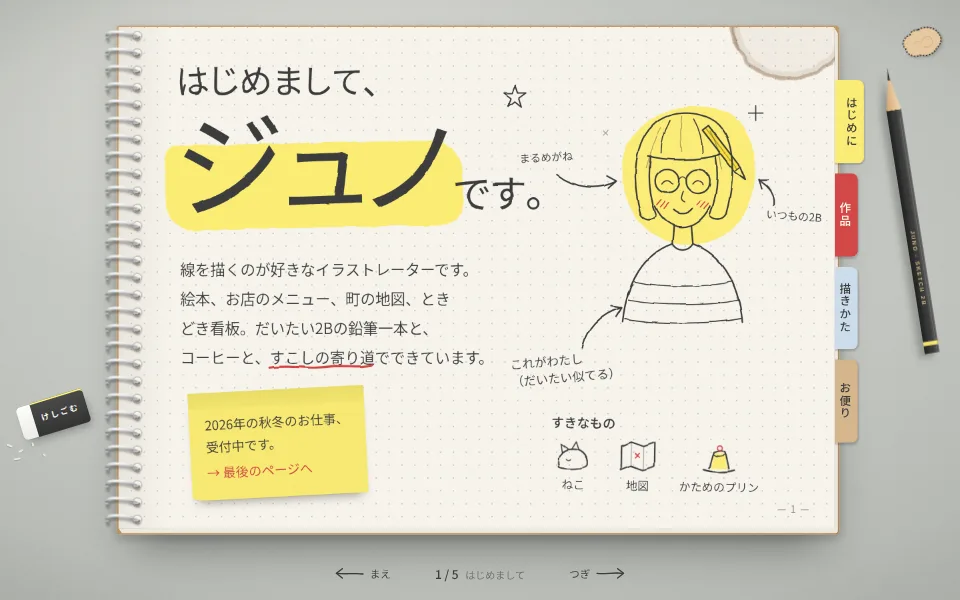
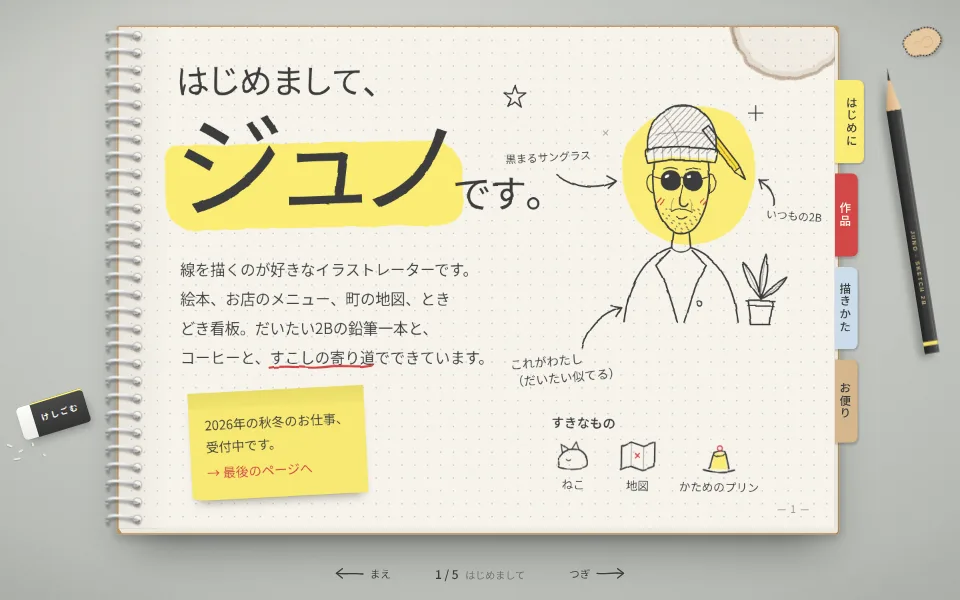
Redraw Juno's self-portrait as the gentle hitman
Same loose line style, now with round black sunglasses (with a glint), a
hatched knit cap holding the 2B pencil, stubble and a moustache, a long
face, a coat collar, and a small potted plant at the shoulder. The margin
note now reads 黒まるサングラス and the alt text describes the new drawing.
Cover frames 01 and 03, which show page 1, are reshot.

Changed region(s): [[0.625, 0.15, 0.8125, 0.54], [0.5312, 0.24, 0.625, 0.27]]

diff --git a/sketchbook/index.html b/sketchbook/index.html
@@ -235,6 +235,8 @@ svg.draw.it{ width: calc(var(--w) * var(--u)); }
 .draw .ln.lt{ stroke-opacity: .42; stroke-width: 1.3; }
 .draw .ln.th{ stroke-width: 1.5; }
 .draw .ln.red{ stroke: var(--red); }
+.draw .ln.stub{ stroke-opacity: .6; stroke-width: 1.8; }
+.draw .solid.glint{ fill: #fbf8f1; }
 .draw .ln.hi{ stroke: var(--yellow); stroke-width: 12; stroke-linecap: butt; mix-blend-mode: multiply; stroke-opacity: .95; }
 .draw .wash{ fill: var(--yellow); mix-blend-mode: multiply; opacity: 0; stroke: none; }
 .draw .t{ font-family: var(--hand); fill: var(--ink); opacity: 0; font-weight: 400; }
@@ -698,42 +700,56 @@ svg.draw.it{ width: calc(var(--w) * var(--u)); }
         <p class="bio it" style="--x:86;--y:318;--w:450;--o:3">線を描くのが好きなイラストレーターです。絵本、お店のメニュー、町の地図、ときどき看板。だいたい2Bの鉛筆一本と、コーヒーと、<span class="ul">すこしの寄り道<svg class="draw" viewBox="0 0 100 10" preserveAspectRatio="none" data-delay="1.9" aria-hidden="true"><path class="ln red" d="M 1 6 C 20 3 38 8 58 5 C 74 3 88 7 99 3"/></svg></span>でできています。</p>
 
         <figure class="portrait it doodle" style="--x:630;--y:58;--w:310;--o:2;--mw:300;--ml:20">
-          <svg class="draw" viewBox="0 0 300 360" data-delay=".3" role="img" aria-label="ジュノの自画像。おかっぱ頭に丸めがね、耳の上に鉛筆、ボーダーのシャツ。">
+          <svg class="draw" viewBox="0 0 300 360" data-delay=".3" role="img" aria-label="ジュノの自画像。ニット帽に黒い丸サングラス、無精ひげにコート。帽子に鉛筆をはさみ、足もとに鉢植え。">
             <path class="wash" d="M 72 150 C 60 76 146 34 212 58 C 262 80 266 186 214 222 C 160 258 82 234 72 150 Z"/>
             <path class="wash" d="M 180.5 83 L 223 138.8 L 231 132.6 L 188.4 76.8 Z"/>
-            <path class="ln" d="M 96 196 C 84 150 86 98 118 72 C 140 56 176 56 198 72 C 226 94 224 150 212 196"/>
-            <path class="ln" d="M 96 196 C 100 204 110 206 117 199"/>
-            <path class="ln" d="M 212 196 C 208 204 198 206 190 199"/>
-            <path class="ln" d="M 106 118 C 132 125 176 125 204 116"/>
-            <path class="ln th" d="M 136 70 C 128 84 124 98 124 114"/>
-            <path class="ln th" d="M 168 68 C 176 82 180 98 180 114"/>
-            <path class="ln lt" d="M 152 64 C 150 80 150 96 152 112"/>
-            <path class="ln" d="M 110 118 C 106 146 108 172 117 197"/>
-            <path class="ln" d="M 198 118 C 202 146 200 172 190 197"/>
-            <path class="ln lt" d="M 124 80 C 116 94 110 112 104 134"/>
-            <path class="ln lt" d="M 190 84 C 198 98 204 116 206 136"/>
-            <path class="ln" d="M 116 186 C 124 204 138 214 152 214 C 168 214 182 204 190 186"/>
-            <path class="ln" d="M 116 152 C 116 131 148 131 148 152 C 148 173 116 173 116 152"/>
-            <path class="ln" d="M 158 152 C 158 131 190 131 190 152 C 190 173 158 173 158 152"/>
-            <path class="ln th" d="M 148 150 C 151 145 155 145 158 150"/>
-            <path class="ln th" d="M 125 156 C 129 150 135 150 139 156"/>
-            <path class="ln th" d="M 167 156 C 171 150 177 150 181 156"/>
-            <path class="ln th" d="M 154 166 C 151 174 150 178 156 180"/>
-            <path class="ln" d="M 141 191 C 148 198 160 198 167 189"/>
-            <path class="ln red th" d="M 118 184 L 124 177 M 123 187 L 129 180 M 128 189 L 134 182"/>
-            <path class="ln red th" d="M 172 184 L 178 177 M 177 187 L 183 180 M 182 189 L 188 182"/>
-            <path class="ln" d="M 141 212 L 139 237"/>
-            <path class="ln" d="M 165 212 L 167 237"/>
-            <path class="ln" d="M 139 237 C 146 248 160 248 167 237"/>
-            <path class="ln" d="M 139 237 C 102 250 78 286 72 342"/>
-            <path class="ln" d="M 167 237 C 204 250 228 286 234 342"/>
-            <path class="ln th" d="M 88 288 C 124 296 186 296 220 288"/>
-            <path class="ln th" d="M 80 313 C 120 321 190 321 228 313"/>
-            <path class="ln th" d="M 75 338 C 120 346 190 346 232 338"/>
+            <defs><clipPath id="capClip"><path d="M 104 124 L 106 112 C 102 76 124 52 152 50 C 182 50 202 74 198 112 L 200 124 Z"/></clipPath></defs>
+            <path d="M 104 124 L 106 112 C 102 76 124 52 152 50 C 182 50 202 74 198 112 L 200 124 C 170 118 134 118 104 124 Z" fill="#fbf8f1"/>
+            <g clip-path="url(#capClip)"><path class="ln lt" d="M 52 114 L 116 50 M 61 114 L 125 50 M 70 114 L 134 50 M 79 114 L 143 50 M 88 114 L 152 50 M 97 114 L 161 50 M 106 114 L 170 50 M 115 114 L 179 50 M 124 114 L 188 50 M 133 114 L 197 50 M 142 114 L 206 50 M 151 114 L 215 50 M 160 114 L 224 50 M 169 114 L 233 50 M 178 114 L 242 50 M 187 114 L 251 50 M 196 114 L 260 50 M 205 114 L 269 50"/></g>
+            <path class="ln" d="M 106 112 C 102 76 124 52 152 50 C 182 50 202 74 198 112"/>
+            <path class="ln" d="M 104 110 C 132 104 172 104 200 110"/>
+            <path class="ln" d="M 104 110 C 103 116 104 122 106 128 C 134 122 170 122 198 128 C 200 122 201 116 200 110"/>
+            <path class="ln lt" d="M 114 109 L 115 126.5 M 126 107 L 126.5 125 M 138 106 L 138 124 M 150 105.5 L 150 123.5 M 162 106 L 162 124 M 174 107 L 173.5 125 M 186 108.5 L 186 126.5"/>
+            <path class="ln lt" d="M 128 64 C 140 78 146 92 148 104"/>
+            <path class="ln lt" d="M 116 90 C 132 84 170 84 188 90"/>
+            <path class="ln" d="M 114 128 C 110 162 116 196 132 214 C 142 225 160 225 170 214 C 186 196 192 162 188 128"/>
+            <path class="ln th" d="M 113 144 C 103 140 101 164 113 168"/>
+            <path class="ln th" d="M 189 144 C 199 140 201 164 189 168"/>
+            <circle class="solid" cx="137" cy="151" r="12.5"/>
+            <circle class="solid" cx="167" cy="151" r="12.5"/>
+            <ellipse class="solid glint" cx="132" cy="145.5" rx="3.4" ry="1.9" transform="rotate(-32 132 145.5)"/>
+            <ellipse class="solid glint" cx="162" cy="145.5" rx="3.4" ry="1.9" transform="rotate(-32 162 145.5)"/>
+            <path class="ln" d="M 124.5 151 C 124.5 134 149.5 134 149.5 151 C 149.5 168 124.5 168 124.5 151"/>
+            <path class="ln" d="M 154.5 151 C 154.5 134 179.5 134 179.5 151 C 179.5 168 154.5 168 154.5 151"/>
+            <path class="ln th" d="M 149.5 149 C 151.5 145.5 152.5 145.5 154.5 149"/>
+            <path class="ln th" d="M 124.5 149 L 114 146 M 179.5 149 L 189 146"/>
+            <path class="ln th" d="M 127 136 C 132 133 140 133 146 136"/>
+            <path class="ln th" d="M 158 136 C 164 133 172 133 177 136"/>
+            <path class="ln" d="M 153 158 C 151 168 147 178 150 184 C 153 188 159 187 161 183"/>
+            <path class="ln lt" d="M 141 176 C 137 184 137 190 139 194 M 163 176 C 167 184 167 190 165 194"/>
+            <path class="ln th" d="M 138 194 C 146 189 158 189 166 194"/>
+            <path class="ln th" d="M 145 201 C 149 204 155 204 159 200"/>
+            <path class="ln stub" d="M 126 196 l 1.5 1 M 131 203 l 1.5 1 M 137 209 l 1.5 1 M 144 213 l 1.5 1 M 151 215 l 1.5 1 M 158 213 l 1.5 1 M 165 209 l 1.5 1 M 171 203 l 1.5 1 M 176 196 l 1.5 1 M 134 199 l 1.5 1 M 140 206 l 1.5 1 M 148 209 l 1.5 1 M 156 209 l 1.5 1 M 163 205 l 1.5 1 M 169 199 l 1.5 1 M 136 191 l 1.5 1 M 168 191 l 1.5 1 M 142 216 l 1.5 1 M 160 216 l 1.5 1 M 151 220 l 1.5 1 M 130 190 l 1.5 1 M 174 190 l 1.5 1"/>
+            <path class="ln red th" d="M 119 181 L 124 175 M 123 184 L 128 178"/>
+            <path class="ln red th" d="M 177 181 L 182 175 M 181 184 L 186 178"/>
+            <path class="ln" d="M 140 222 L 138 242"/>
+            <path class="ln" d="M 162 222 L 164 242"/>
+            <path class="ln th" d="M 138 242 C 145 250 157 250 164 242"/>
+            <path class="ln" d="M 138 242 C 104 252 80 288 74 342"/>
+            <path class="ln" d="M 164 242 C 198 252 222 288 228 342"/>
+            <path class="ln" d="M 136 246 L 117 266 L 130 290 L 146 342"/>
+            <path class="ln" d="M 166 246 L 185 266 L 172 290 L 156 342"/>
+            <path class="ln th" d="M 173 318 C 173 314 179 314 179 318 C 179 322 173 322 173 318"/>
             <path class="ln" d="M 180 83.1 L 222.8 138.5 L 237.8 149.7 L 230.8 132.4 L 188 76.9 L 180 83.1"/>
             <path class="ln th" d="M 222.8 138.5 L 230.8 132.4"/>
             <path class="ln lt" d="M 184 80 L 226.8 135.4"/>
             <path class="ln th" d="M 233.2 146.3 L 237.8 149.7 L 236 144.4"/>
+            <path class="ln" d="M 238 314 L 278 314 M 241 314 L 245 346 L 271 346 L 275 314"/>
+            <path class="ln th" d="M 240 321 L 276 321"/>
+            <path class="ln" d="M 258 312 C 244 296 236 280 234 262 C 246 272 256 290 258 312"/>
+            <path class="ln" d="M 258 312 C 256 290 258 270 266 252 C 271 272 266 294 258 312"/>
+            <path class="ln" d="M 258 312 C 270 298 282 288 294 282 C 287 296 272 306 258 312"/>
+            <path class="ln lt" d="M 256 306 C 250 292 244 280 238 268 M 259 304 C 260 288 262 272 265 260 M 262 309 C 272 302 282 294 290 286"/>
             <path class="ln th" d="M 252 50 L 252 70 M 242 60 L 262 60"/>
             <path class="ln lt" d="M 46 84 L 52 90 M 52 84 L 46 90"/>
           </svg>
@@ -747,7 +763,7 @@ svg.draw.it{ width: calc(var(--w) * var(--u)); }
         <svg class="draw arrow" style="left:calc(890 * var(--u));top:calc(208 * var(--u));width:calc(36 * var(--u))" viewBox="0 0 36 44" aria-hidden="true">
           <path class="ln" d="M 26 40 C 28 26 20 14 6 6"/><path class="ln" d="M 18 5 L 5 5 L 9 17"/>
         </svg>
-        <p class="note it sm" style="--x:560;--y:170;--r:-3;--o:2;--ml:0">まるめがね</p>
+        <p class="note it sm" style="--x:540;--y:170;--r:-3;--o:2;--ml:0">黒まるサングラス</p>
         <svg class="draw arrow" style="left:calc(608 * var(--u));top:calc(194 * var(--u));width:calc(92 * var(--u))" viewBox="0 0 92 40" aria-hidden="true">
           <path class="ln" d="M 4 12 C 30 32 60 34 86 22"/><path class="ln" d="M 74 14 L 87 21 L 76 31"/>
         </svg>
